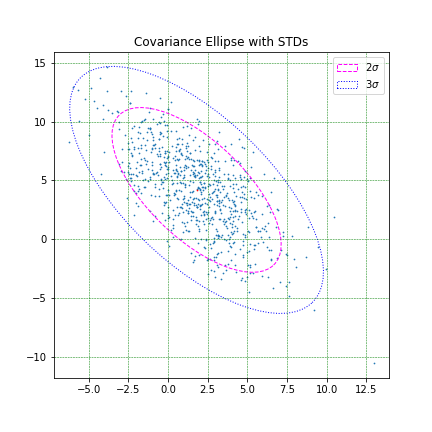
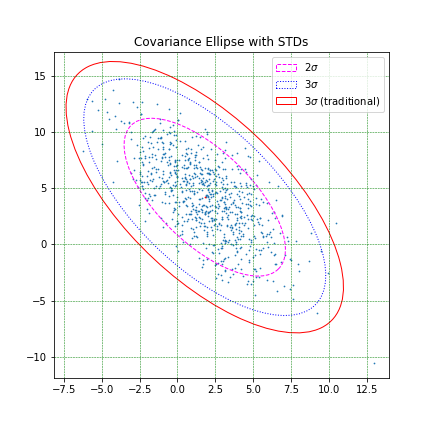
Covariance: update code and confirmed that it makes sense with traditional calculations

diff --git a/covariance.py b/covariance.py
@@ -9,6 +9,7 @@ Created on Mon Aug 21 22:54:37 2023
     https://carstenschelp.github.io/2018/09/14/Plot_Confidence_Ellipse_001.html
     https://www.visiondummy.com/2014/04/draw-error-ellipse-representing-covariance-matrix
     
+    
     For quick reference, here is the Chi-square probabilities.
     For 2D dataset requiring a 95% confidence interval, i.e. 95% of data will fall into ellipse,
     we will use P(s < 5.991) = 1 - 0.05 = 0.95 
@@ -52,6 +53,9 @@ df	0.995	0.99 	0.975	0.95	    0.90  	0.10 	0.05 	0.025	0.01	    0.005
 80	51.172	53.540	57.153	60.391	64.278	96.578	101.879	106.629	112.329	116.321
 90	59.196	61.754	65.647	69.126	73.291	107.565	113.145	118.136	124.116	128.299
 100	67.328	70.065	74.222	77.929	82.358	118.498	124.342	129.561	135.807	140.169
+
+Can also look at:
+    https://www.reid.ai/2012/09/chi-squared-distribution-table-with.html
 """
 
 import sys, os
@@ -138,6 +142,54 @@ def confidence_ellipse(x, y, ax, n_std=3.0, facecolor='none', verbose=False, tes
     return ax.add_patch(ellipse)
 
 #%%
+def ellipse_parameters(data, dof=1, nstd=3, verbose=False):
+    # Calculate mean and covariance matrix
+    mean = np.mean(data, axis=0)
+    cov_matrix = np.cov(data, rowvar=False)
+
+    # Calculate eigenvalues and eigenvectors
+    eigenvalues, eigenvectors = np.linalg.eig(cov_matrix)
+
+    # Sort eigenvalues and eigenvectors in decreasing order
+    sorted_indices = np.argsort(eigenvalues)[::-1]
+    eigenvalues = eigenvalues[sorted_indices]
+    eigenvectors = eigenvectors[:, sorted_indices]
+
+    # calculate scale up for axis depending on degree of freedom and standard deviation desired
+    if dof==1:
+        scaledup = nstd
+    elif dof==2:
+        if nstd == 1:
+            scaledup = np.sqrt(2.3)
+        elif nstd == 2:
+            scaledup = np.sqrt(6.18)
+        elif nstd == 3:
+            scaledup = np.sqrt(11.83)
+    elif dof==3:
+        if nstd == 1:
+            scaledup = np.sqrt(3.53)
+        elif nstd == 2:
+            scaledup = np.sqrt(8.02)
+        elif nstd == 3:
+            scaledup = np.sqrt(14.16)
+
+    # Determine ellipse parameters
+    semi_major = scaledup * np.sqrt(eigenvalues[0])
+    semi_minor = scaledup * np.sqrt(eigenvalues[1])
+    angle = np.degrees(np.arctan2(eigenvectors[1, 0], eigenvectors[0, 0]))
+    
+    if verbose:
+        print('Eigenvalue (major): ', eigenvalues[0])
+        print('Eigenvalue (minor): ', eigenvalues[1])
+        print('Scale factor: ', scaledup)
+        print('Semimajor axis: ', semi_major)
+        print('Semiminor axis: ', semi_minor)
+        print('Angle: ', angle)
+    
+    return semi_major, semi_minor, angle, mean
+
+
+#%%
 def get_correlated_dataset(n, dependency, mu, scale):
     '''
     Function to generate a correlated dataset of n sets of 2 quantities based on three things:
@@ -169,6 +221,11 @@ if __name__ == '__main__':
         if arg[-3:] in ['txt','csv']:
             print('Reading in data file in the folder covariance.')
             runtype = arg
+            
+        if arg[0:3] in ['dof']:
+            dof = int(arg[3:])
+        else:
+            dof = 1
         
     if '-verbose' in sys.argv:
         verbose = True
@@ -179,6 +236,15 @@ if __name__ == '__main__':
         testing = True
     else:
         testing = False
+        
+    print(f'''
+          =========INPUT SETTINGS============
+          Runtype (file or example): {runtype}
+          Degree of freedom assumed: {dof}
+          Verbosity                : {verbose}
+          Testing                  : {testing}
+          ''')
+    
     
     # make covariance folder if doesn't exist
     if not os.path.exists('covariance'):
@@ -190,6 +256,7 @@ if __name__ == '__main__':
         try:
             df = pd.read_csv(runtype)
         except:
+            print(f'Successfully read in covariance/{runtype} file!')
             df = pd.read_csv('covariance/'+runtype)
             
         print('Generate the correlation matrix as such...')
@@ -204,46 +271,44 @@ if __name__ == '__main__':
         
         #%% calculate covariance the 'traditional' way
         eigenvalues, eigenvectors = np.linalg.eig(np.cov(x,y))
-
         
-        #%% create the plot
+        #%% create the plot using nontraditional way
         fig, ax = plt.subplots(figsize=(6, 6))
         ax.scatter(x, y, s=0.5)
         
-        # degree of freedom assuming 2 and using 2-sigma confidence interval (approximately 95%)
-        # k = 2, chi-squared = 6.18
-        horizontal_semiaxis = np.sqrt(eigenvalues[0]*6.18)
-        vertical_semiaxis   = np.sqrt(eigenvalues[1]*6.18)
-        print('Horizontal 2-sigma axis half-length: ', horizontal_semiaxis)
-        print('Vertical   2-sigma axis half-length: ', vertical_semiaxis)
+        mu = np.mean(x), np.mean(y)
+        ax.scatter(mu[0], mu[1], c='red', s=0.5)
+        
         print('Error ellipse with std=2')
         confidence_ellipse(x, y, ax, n_std=2, verbose = verbose, testing = testing,
                            label=r'$2\sigma$', edgecolor='fuchsia', linestyle='--')
         
         print('-----------------------------------')
-        # k = 2, chi-squared = 11.83
-        horizontal_semiaxis = np.sqrt(eigenvalues[0]*11.83)
-        vertical_semiaxis   = np.sqrt(eigenvalues[1]*11.83)
-        print('Horizontal 3-sigma axis half-length: ', horizontal_semiaxis)
-        print('Vertical   3-sigma axis half-length: ', vertical_semiaxis)
         print('Error ellipse with std=3')
         confidence_ellipse(x, y, ax, n_std=3, verbose=verbose, testing = testing,
                            label=r'$3\sigma$', edgecolor='blue', linestyle=':')
         
-        mu = np.mean(x), np.mean(y)
         
-        ax.scatter(mu[0], mu[1], c='red', s=0.5)
+        print('-----------------------------------')
+        #%% create covariance plot the traditional way
+        data = df.values
+
+        # Create the ellipse
+        semi_major, semi_minor, angle, mean = ellipse_parameters(data,dof=1,nstd=2,verbose=verbose)
+        ellipse2sigma = Ellipse(xy=mu, width=semi_major * 2, height=semi_minor * 2, angle=angle, 
+                          edgecolor='yellow', facecolor='none', label=r'$2\sigma$ (w/ eigenvalues)')
+        plt.gca().add_patch(ellipse2sigma)
         
-        ax.set_title('Covariance Ellipse with STDs')
-        ax.legend()
+        # Create the ellipse
+        semi_major, semi_minor, angle, mean = ellipse_parameters(data,dof=1,nstd=3,verbose=verbose)
+        ellipse3sigma = Ellipse(xy=mu, width=semi_major * 2, height=semi_minor * 2, angle=angle, 
+                          edgecolor='red', facecolor='none', label=r'$3\sigma$ (w/ eigenvalues)')
+        plt.gca().add_patch(ellipse3sigma)
         
-        # spacing = 1 # This can be your user specified spacing. 
-        # minorLocator = MultipleLocator(spacing)
-        # ax.yaxis.set_minor_locator(minorLocator)
-        # ax.xaxis.set_minor_locator(minorLocator)
-        # ax.grid(which='minor')
         
         plt.grid(color = 'green', linestyle = '--', linewidth = 0.5)
+        ax.set_title('Covariance Ellipse with STDs assuming ')
+        ax.legend()
         
         figurename = 'covarianceplot_' + os.path.basename(runtype)
         plt.savefig(f'covariance/{figurename}.png')
